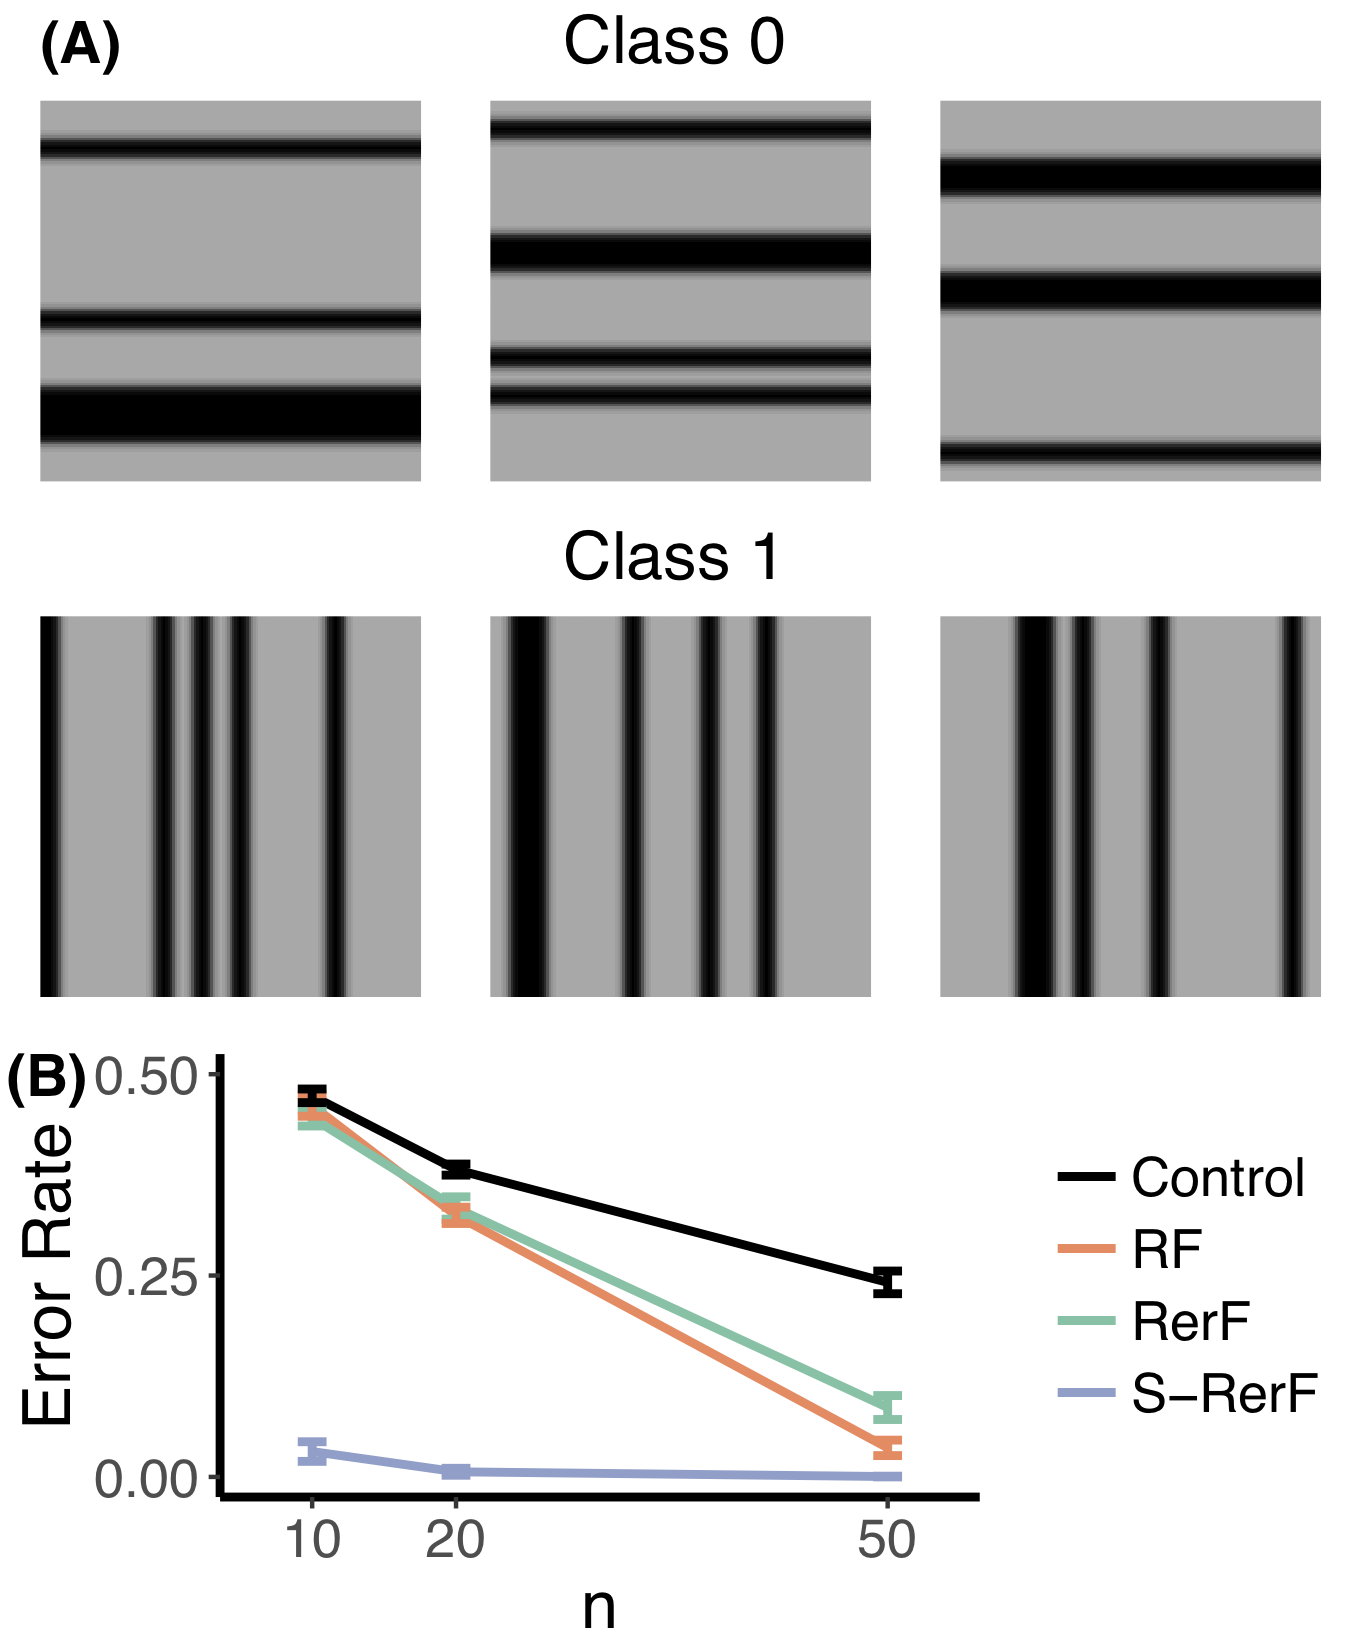
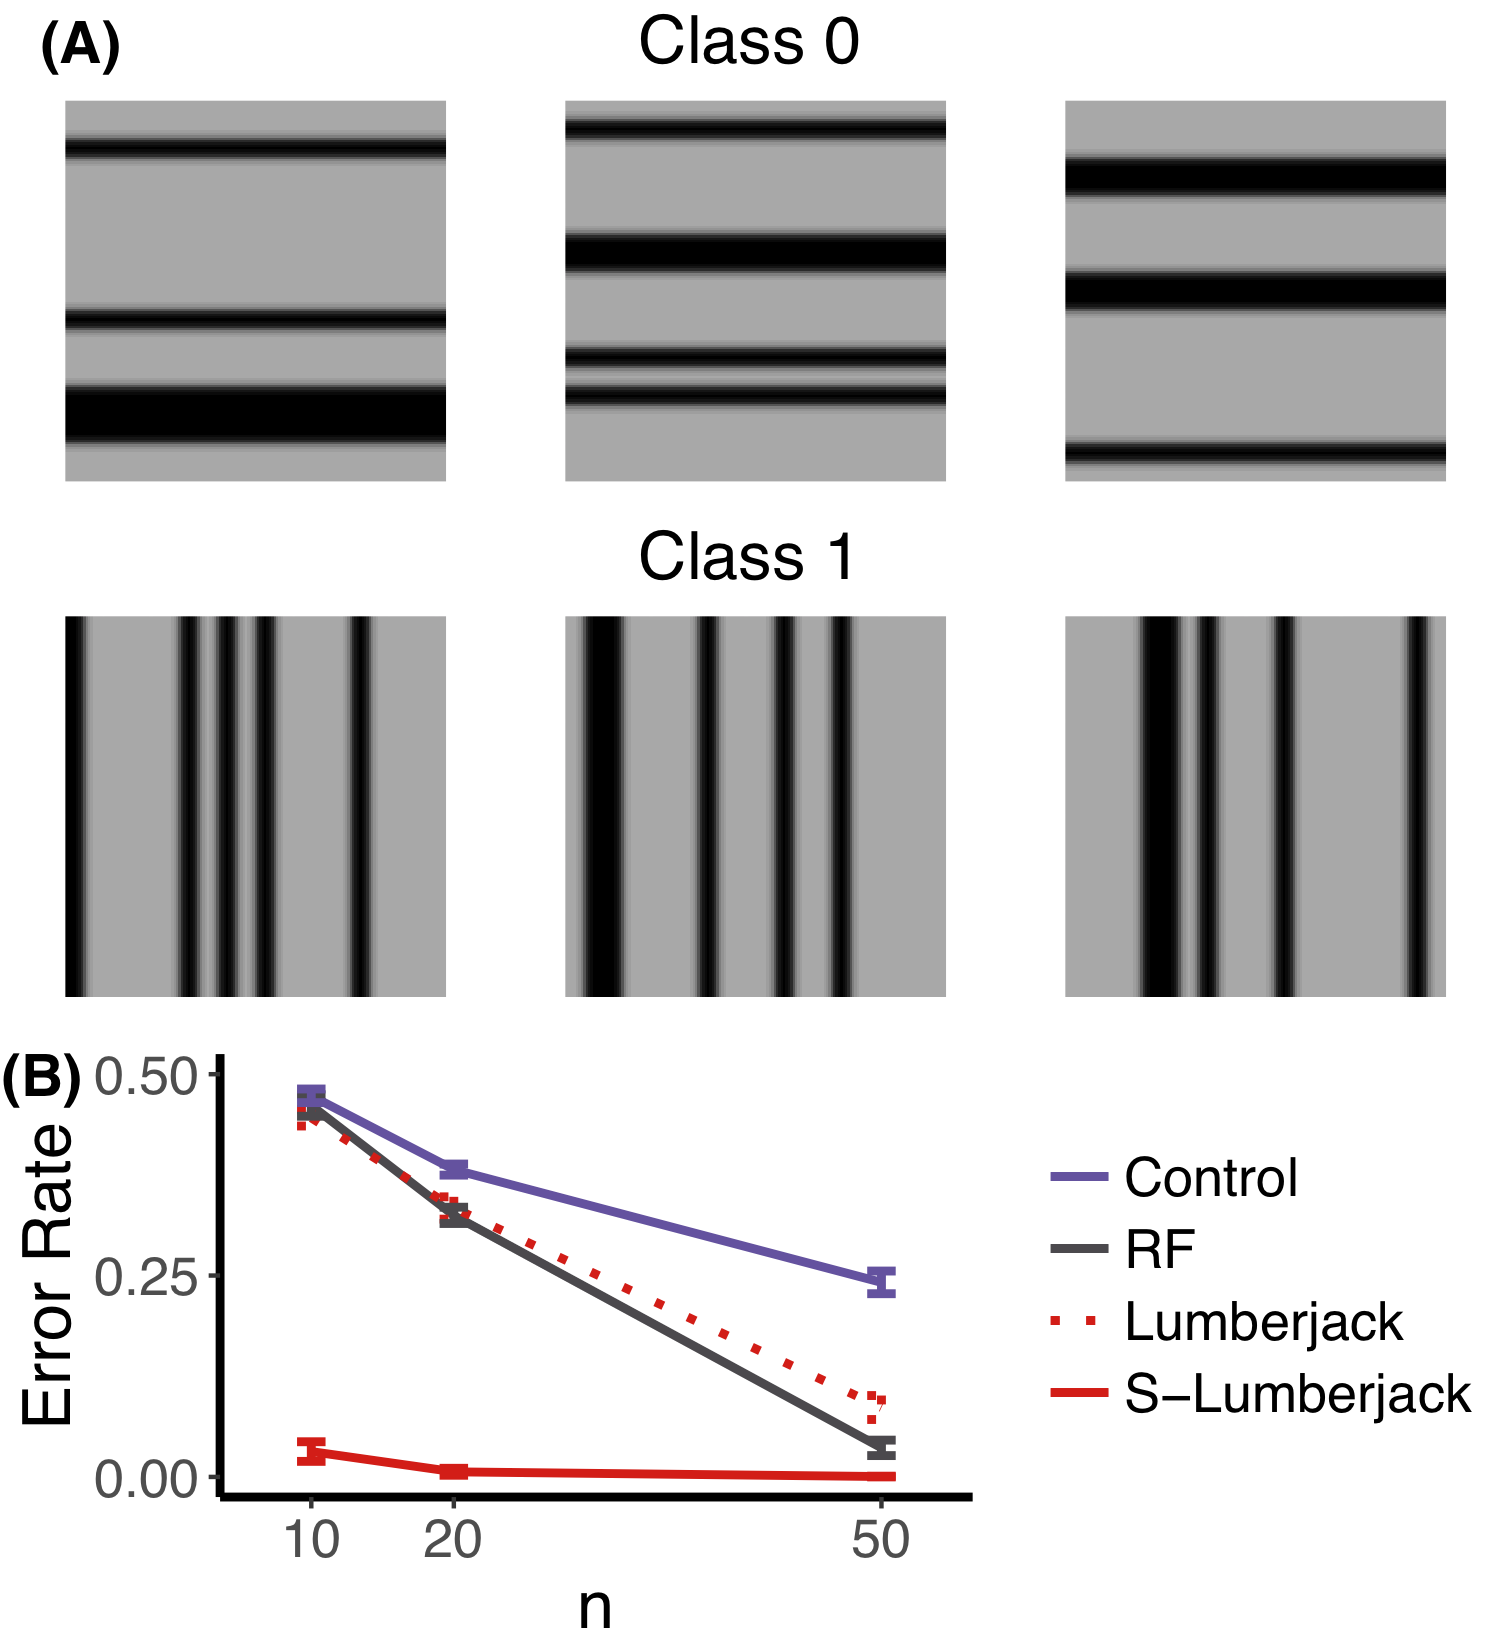
added lumberjac_vs_deeplearning talk

diff --git a/lumberjack_vs_deeplearning.html b/lumberjack_vs_deeplearning.html
@@ -1,0 +1,396 @@
+<!DOCTYPE html>
+<html>
+  <head>
+    <title>RF vs DL </title>
+    <meta http-equiv="Content-Type" content="text/html; charset=UTF-8"/>
+    <link rel="stylesheet" href="fonts/quadon/quadon.css">
+    <link rel="stylesheet" href="fonts/gentona/gentona.css">
+    <link rel="stylesheet" href="slides_style.css">
+    <script type="text/javascript" src="assets/plotly/plotly-latest.min.js"></script>
+  </head>
+  <body>
+    <textarea id="source">
+
+
+
+
+class: left,
+
+name:opening
+
+
+## Lumberjack vs Deep Learning
+
+
+Joshua T. Vogelstein
+
+
+<br><br><br>
+
+<img src="images/funding/jhu_bme_blue.png" STYLE="HEIGHT:95px;"/>
+<img src="images/funding/KNDI.png" STYLE="HEIGHT:95px;"/>
+
+.foot[[jovo@jhu.edu](mailto:jovo at jhu dot edu)
+    <http://neurodata.io/talks/lumberjack_vs_deeplearning.html>]
+
+
+
+
+---
+
+# Background
+
+- Decision forest (RF) are things
+- Deep learning (DL) are other things
+- They share some stuff
+- They excel in complementary ways
+- Can we put all the good stuff from DL into RF?
+
+---
+
+### When Does RF Win?
+
+- Classification
+  - Caruana et al. 2006 (ICML) - low-dim classification
+  - Caruana et al. 2008 (ICML) - high-dim classification
+  - Delgado et al. 2014 (JMLR) - >100 classificaiton problems
+  - Chen et al. 2016 (KDD) - Kaggle competitions
+- Independence testing 
+
+Likely wins:
+- K-sample testing 
+- Manifold learning
+- Conditional entropy and mutual information 
+- Regression 
+
+---
+
+### Lumberjack (LJ) does even better 
+
+<br><br>
+
+<img src="images/rerf_perf.png"  style="width: 800px;"/>
+
+
+---
+
+### When does DL Win? 
+
+- Image classification
+- Image localization 
+- Translation 
+- Speech to Text 
+- Reinforcement Learning 
+
+
+---
+
+### What are the shared properties for when DL beats RF? 
+
+Assume  $(x_i,y_i) \sim F$, $x_i \in \mathcal{X}$, $y_i \in \mathcal{Y}$ where $|\mathcal{Y}|=K$, and $i \in [n]$
+
+1. n is large, 
+2. K is large, and
+3.  X is "structured".
+
+For example, if X is the space of images, and therefore can be represented by R<sup>p x 2</sup>, where the first column corresponds to the magnitude of the pixel, and the 2nd column corresponds to the index/location of the pixel.
+
+Thus, we can investigate.
+
+---
+
+### What properties does DL have that RF does not?
+
+1. At each level, the representation of data is updated 
+2. Structure of data is encoded in structure of estimator 
+3. Features are learned from the data 
+
+
+---
+
+### Can we get those properties into RF? 
+
+# Yes
+
+---
+
+### Data Representation Updated Per Level 
+
+
+1. RF is invariant to monotonic transformations of the data, 
+1. .r[LumberJack] (LJ) is not.
+2. LJ typically scales each feature to be between 0 & 1.
+3. Instead, after each split, we should rescale each feature within each child node to again be between 0 and 1. 
+4. Thus, all features are updated after each split, in a data-split dependent fashion
+
+
+---
+
+### Structure of Data is Encoded in Structure of Estimator
+
+1. RF is invariant to permuting pixels 
+2. DL is not
+3. Structured LJ (S-LJ), which samples *patches* rather than *pixels*, is also not 
+
+
+---
+class: left, middle
+
+<img src="images/image_stripes.png"  style="height: 500px;"/>
+
+S-LJ is just a first step, *patches* can be replaced by an arbitrary dictionary, e.g., gabor filters or scattering networks, etc.
+
+
+---
+
+### Features are Learned from the Data 
+
+1. S-LJ starts with a set of "features/atoms"
+2. Various recent proposals to weight feature sampling probabilities
+3. Various recent proposals for computing feature importance 
+4. With LJ, one could analytically update feature weights using importance from previously learned trees 
+
+---
+
+<img src="images/lumberjack_mobius.png"  style="height: 600px;"/>
+
+
+---
+
+### What to Do? 
+
+
+1. Incorporate node specific rescaling 
+2. Replace standard basis with suitable dictionaries
+3. Incorporate iterated feature weights using feature importance (requires coding new feature importance metric)
+5. Run some experiments
+
+---
+
+### Experiment #1
+
+Setting
+- Take CIFAR-10
+- Subsample classes so that K=2
+- Permute the indices of the images
+- Determine the current best DL algorithm on this dataset 
+
+
+Evaluation
+- Compare accuracy of LJ vs DL as a function of sample size. 
+- Also compare "rescaling" LJ (which may be required even for this)
+
+---
+
+### Experiment #2
+
+Setting 
+- Same as Experiment #1, but without permuting indices 
+
+Evaluation 
+- Add S-LJ
+- Replace standard basis with suitable dictionary 
+- Add iterated feature importance sampling
+
+---
+
+### Experiment #3 
+
+Setting 
+- Same as experiment #2, but let K=10 again. 
+
+Evaluation 
+- Same as experiment #2 
+- Note that RF for K>2 gets a bit wonky, we might need to think about that more
+
+---
+
+### Experiments #4-#6 
+
+Same as #1-#3, but replace images with something on speech (with Sanjeev)
+
+---
+
+### Speeding up LJ Training 
+
+Implementation Changes
+1. James has some ideas that just change implementation, not algorithm 
+3. Distributed implementation 
+
+Algorithm Changes
+1. Subsample as in U-RerF
+2. Quantize features
+2. Recursive partitioning approach, ie, test each feature to see which has the most information about Y, and then find the best split for that 
+    1. avoids checking each split point for each feature, 
+    2. enables treating categorical and continuous features in the same fashion 
+
+---
+
+### Next Steps: Who Wants What?
+
+Experiments
+1. Vision 
+2. Speech 
+3. Other?
+
+Algorithm 
+3. Node rescaling 
+4. Dictionaries 
+5. Updated feature importance 
+6. Feature sampling probabilities
+4. Recursive partitioning 
+2. Subsample/Quantize 
+
+
+Implementation 
+
+1. C++/Python bindings 
+5. Distributed implementation
+
+---
+
+### Papers to Write 
+
+1. LJ with dictionaries 
+2. LJ Posterior sampling 
+3. LJ w/transformations (0-1, subsample, quantize)
+1. LJ manifold learning 
+1. LJ info theory 
+1. LJ hypothesis testing 
+1. Fast LJ implementation
+1. Each modality experiments
+
+
+---
+
+### Next Steps 
+
+1. Dealing better with large K 
+1. Multi-modal LJ
+
+
+
+
+---
+
+### References
+
+
+- Lumberjack [[1]](https://arxiv.org/abs/1506.03410)
+- Forest Packing: Fast, Parallel Decision Forests [[3]](https://arxiv.org/abs/1806.07300)
+- Lumberjack R package:  [CRAN](https://cran.r-project.org/web/packages/rerf/index.html) 
+
+
+---
+class: top, left
+
+### Acknowledgements
+
+
+<div class="container">
+  <img src="faces/cep.png"/>
+  <div class="centered">Carey Priebe</div>
+</div>
+
+<div class="container">
+  <img src="faces/randal.jpg"/>
+  <div class="centered">Randal Burns</div>
+</div>
+
+
+
+<div class="container">
+  <img src="faces/cshen.jpg"/>
+  <div class="centered">Cencheng Shen</div>
+</div>
+
+<div class="container">
+  <img src="faces/minh.jpg"/>
+  <div class="centered">Minh Tang</div>
+</div>
+
+<div class="container">
+  <img src="faces/percy.jpg"/>
+  <div class="centered">Percy Li</div>
+</div>
+
+<div class="container">
+  <img src="faces/tyler.jpg"/>
+  <div class="centered">Tyler Tomita</div>
+</div>
+
+
+<div class="container">
+  <img src="faces/james.jpg"/>
+  <div class="centered">James Browne</div>
+</div>
+
+<div class="container">
+  <img src="faces/falk_ben.jpg"/>
+  <div class="centered">Ben Falk</div>
+</div>
+
+<div class="container">
+  <img src="faces/jesse.jpg"/>
+  <div class="centered">Jesse Patsolic</div>
+</div>
+
+<div class="container">
+  <img src="faces/loftus.jpg"/>
+  <div class="centered">Alex Loftus</div>
+</div>
+
+<div class="container">
+  <img src="faces/veronika.jpg"/>
+  <div class="centered">Veronika Strnadova</div>
+</div>
+
+
+<span style="font-size:200%; color:red;">&hearts;, &#129409;, &#128106;, &#127758;, &#127756;</span>
+
+
+
+<img src="images/funding/nsf_fpo.png" STYLE="HEIGHT:95px;"/>
+<img src="images/funding/nih_fpo.png" STYLE="HEIGHT:95px;"/>
+<img src="images/funding/darpa_fpo.png" STYLE=" HEIGHT:95px;"/>
+<img src="images/funding/iarpa_fpo.jpg" STYLE="HEIGHT:95px;"/>
+<img src="images/funding/KAVLI.jpg" STYLE="HEIGHT:95px;"/>
+<img src="images/funding/schmidt.jpg" STYLE="HEIGHT:95px;"/>
+
+
+
+### Questions?
+
+
+
+
+
+
+
+
+
+
+
+    </textarea>
+    <!-- <script src="https://gnab.github.io/remark/downloads/remark-latest.min.js"></script> -->
+    <script src="remark-latest.min.js"></script>
+    <script src="assets/KaTeX/0.5.1/katex.min.js"></script>
+    <script src="assets/KaTeX/0.5.1/auto-render.min.js"></script>
+    <link rel="stylesheet" href="assets/KaTeX/0.5.1/katex.min.css">
+    <script type="text/javascript">
+      var options = {};
+      var renderMath = function() {
+        renderMathInElement(document.body);
+        // or if you want to use $...$ for math,
+        renderMathInElement(document.body, {delimiters: [ // mind the order of delimiters(!?)
+            {left: "$$", right: "$$", display: true},
+            {left: "$", right: "$", display: false},
+            {left: "\\[", right: "\\]", display: true},
+            {left: "\\(", right: "\\)", display: false},
+        ]});
+      }
+      var slideshow = remark.create(options, renderMath);
+
+    </script>
+  </body>
+</html>
